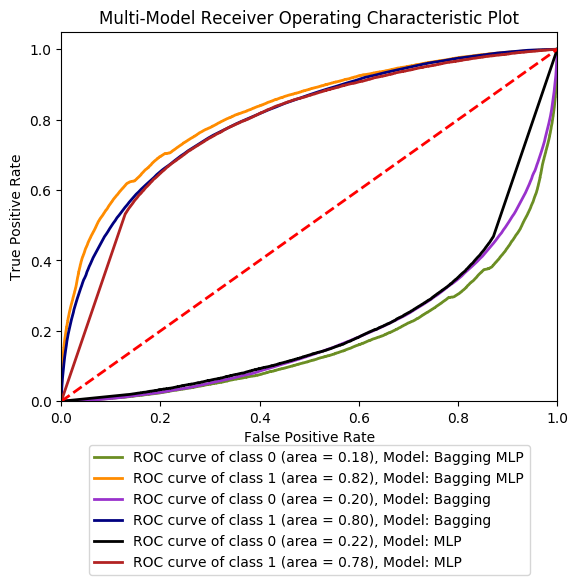
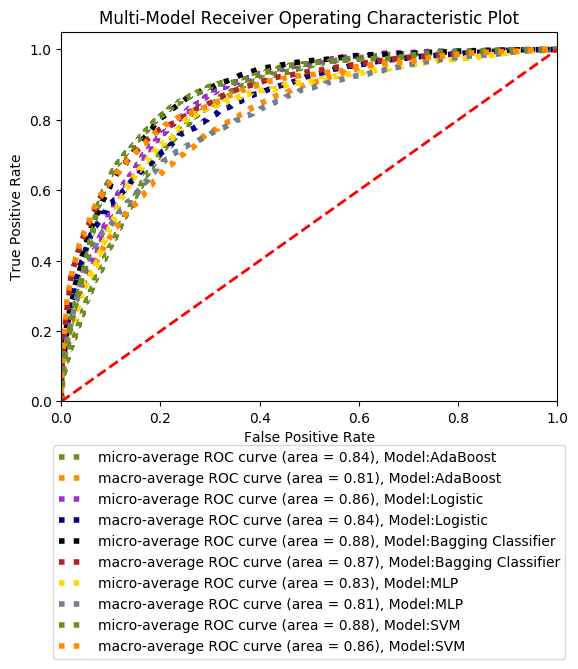
Got organelle predictor configured

diff --git a/Python_Files/organelle.py b/Python_Files/organelle.py
@@ -2,6 +2,8 @@ import sys, string, io, os, math
 import numpy as np
 from collections import Counter
 import matplotlib.pyplot as plot
+from scipy import interp
+from itertools import cycle
 
 from Bio import SeqIO
 from Bio.Seq import Seq
@@ -17,8 +19,8 @@ from sklearn.ensemble import AdaBoostClassifier, RandomForestClassifier
 
 from sklearn.feature_selection import RFE, RFECV
 from sklearn.model_selection import train_test_split,StratifiedKFold
-from sklearn.metrics import matthews_corrcoef,classification_report,confusion_matrix
-from sklearn.preprocessing import StandardScaler
+from sklearn.metrics import matthews_corrcoef,classification_report,confusion_matrix, roc_curve,auc
+from sklearn.preprocessing import StandardScaler, label_binarize
 from sklearn.externals import joblib
 
 from imblearn.metrics import classification_report_imbalanced
@@ -50,26 +52,26 @@ def main():
 def readFasta():
     # LABELS: 1 = CYTO, 2 = MITO, 3 = NUCLEUS, 4 = SECRETED
     files = []
-    for fa in os.listdir("FASTA"):
-        filePath = "FASTA/" + str(fa)
+    for fa in os.listdir("../Data_Files/organelle_files/"):
+        filePath = "../Data_Files/organelle_files/" + str(fa)
         files += [filePath]
     files = sorted(files)
     print files
     labels = []
     sequences = []
-    species_list = []
+    # species_list = []
     for i in range(0,len(files)):
         for seq_record in SeqIO.parse(files[i],'fasta'):
-            species, processed = processSeq(seq_record)
+            processed = processSeq(str(seq_record.seq))
             sequences += [processed]
-            species_list += [species]
+            # species_list += [species]
             # sequences += [oneHotEncode(seq_record)]
             labels += [i]
     l = np.asarray(labels)
     s = np.asarray(sequences)
-    labelSpecies(species_list)
+    # labelSpecies(species_list)
     print "Distribution of labels = " + str(sorted(Counter(labels).items()))
-    np.savez_compressed('data',labels=labels,seqs=sequences)
+    np.savez_compressed('../Data_Files/temp_files/organelle',labels=labels,seqs=sequences)
     return sequences,labels
 
 def oneHotEncode(sequence):
@@ -97,7 +99,7 @@ def createWindows(sequences,labels):
     assert(len(windows) == len(new_labels))
     return windows,new_labels
 
-def processSeq(seq_record):
+def processSeq(seq):
 
     ''' Protein features found:
         - Sequence Length
@@ -112,10 +114,10 @@ def processSeq(seq_record):
     '''
 
 
-    seq = str(seq_record.seq)
+    # seq = str(seq_record.seq)
     prot = ProteinAnalysis(seq)
-    desc = str(seq_record.description).split('_')
-    species = desc[1].split(' ')[0]
+    # desc = str(seq_record.description).split('_')
+    # species = desc[1].split(' ')[0]
     seq_length = len(seq)
     isoelectric = prot.isoelectric_point()
     gravy = calculateGravy(seq,0,seq_length)
@@ -151,7 +153,7 @@ def processSeq(seq_record):
                     AA_global_dist + AA_local_head + AA_local_tail + list(ss_frac)
 
     # print seq_length, GC_distribution, mol_weight, aroma, isoelectric
-    return species, return_vector
+    return return_vector
 
 def calculateGravy(sequence,start,end):
     total = 0
@@ -217,7 +219,7 @@ def optimalFeatures(X,y):
     plot.xlabel("Number of features selected")
     plot.ylabel("Cross validation score (nb of correct classifications)")
     plot.plot(range(1, len(rfecv.grid_scores_) + 1), rfecv.grid_scores_)
-    plot.show()
+    plot.savefig("Plots/OptimalFeatures.png")
 
 def evaluateFeatures(X,y, num_features):
     scaler = StandardScaler()
@@ -242,30 +244,56 @@ def evaluateFeatures(X,y, num_features):
 
     importances = selector.ranking_
     indices = np.argsort(importances)
-    sorted_labels = []
-    print len(labels),len(indices)
-    for i in range(0,len(indices)):
-        sorted_labels += labels[indices[i]]
-    print len(importances),len(indices),X.shape[1]
-    print("Feature Ranking:")
-    for r in range(0,X.shape[1]):
-        print "{}: {} ({})".format(r+1,labels[indices[r]],importances[indices[r]])
-    f = plot.figure()
-    plot.title("Feature importances")
-    plot.bar(range(X.shape[1]), importances[indices],color="b", align="center")
-    plot.xticks(range(X.shape[1]), sorted_labels,rotation='vertical')
-    plot.xlim([-1, X.shape[1]])
-    plot.show()
+    # sorted_labels = []
+    # print len(labels),len(indices)
+    # for i in range(0,len(indices)):
+    #     sorted_labels += labels[indices[i]]
+    # print len(importances),len(indices),X.shape[1]
+    # print("Feature Ranking:")
+    # for r in range(0,X.shape[1]):
+    #     print "{}: {} ({})".format(r+1,labels[indices[r]],importances[indices[r]])
+    # f = plot.figure()
+    # plot.title("Feature importances")
+    # plot.bar(range(X.shape[1]), importances[indices],color="b", align="center")
+    # plot.xticks(range(X.shape[1]), sorted_labels,rotation='vertical')
+    # plot.xlim([-1, X.shape[1]])
+    # plot.savefig("Plots/")
 
     sorted_features = []
     for i in range(0,len(X)):
         row = X[i]
         current_features = [row[indices[i]] for i in range(0,num_features)]
-        print len(current_features)
+        # print len(current_features)
         sorted_features += [current_features]
-    print(indices[0:num_features])
+    # print(indices[0:num_features])
     return sorted_features
 
+def buildPredict(predict_seq):
+    sequences,labels = readFasta()
+    X = np.asarray(sequences)
+    y = np.asarray(labels)
+    indices = [0,29,30,31,33,35,36,38,80,41,42,27,43,49,52,57,59,61,64,65,72,75,79,48,26,81,24,8,5,25,4,10,11,7,13,14,15,3,12,20,23,1,2,21,16,6,19,18,17]
+    sorted_features = []
+    for i in range(0,len(X)):
+        row = X[i]
+        current_features = [row[indices[j]] for j in range(0,len(indices))]
+        sorted_features += [current_features]
+    new_X = np.asarray(sorted_features)
+    scaler = StandardScaler()
+    print(scaler.fit(new_X))
+    scaled_train_x = scaler.transform(new_X)
+    X_train,X_test,y_train,y_test = train_test_split(scaled_train_x,y,random_state=19,test_size=0.3)
+    svm = SVC(class_weight='balanced',random_state=19,decision_function_shape='ovr')
+    svm.fit(X_train,y_train)
+
+    sorted_predict = []
+    for i in range(0,len(predict_seq)):
+        temp_predict = processSeq(predict_seq[i])
+        temp = [temp_predict[indices[j]] for j in range(0,len(indices))]
+        sorted_predict += [temp]
+    scaled_predict_x = scaler.transform(sorted_predict)
+    probs_svm = svm.decision_function(scaled_predict_x)
+    return probs_svm
 
 def buildModel(X,y):
     # X = np.reshape(X,(X.shape[0],X.shape[1] * X.shape[2]))
@@ -276,7 +304,7 @@ def buildModel(X,y):
     X_train,X_test,y_train,y_test = train_test_split(scaled_train_x,y,random_state=19,test_size=0.3)
 
     bag = BalancedBaggingClassifier(n_estimators=200,random_state=19)
-    svm = SVC(class_weight='balanced',random_state=19,decision_function_shape='ovo')
+    svm = SVC(class_weight='balanced',random_state=19,decision_function_shape='ovr')
     neural = MLPClassifier(max_iter=500,random_state=19,solver='lbfgs',alpha=1e-5,hidden_layer_sizes=(49,8,4))
     ada = AdaBoostClassifier(n_estimators=100,random_state=19)
     logistic = LogisticRegression(solver='lbfgs',max_iter=500)
@@ -287,6 +315,7 @@ def buildModel(X,y):
     neural.fit(X_train,y_train)
     ada.fit(X_train,y_train)
     logistic.fit(X_train,y_train)
+
     # joblib.dump(bag,'bag.pkl')
     # joblib.dump(scaler,'scaler.pkl')
 
@@ -314,6 +343,100 @@ def buildModel(X,y):
     print(classification_report_imbalanced(y_test, y_pred4))
     print(classification_report_imbalanced(y_test, y_pred5))
 
+    probs_ada = ada.predict_proba(X_test)
+    probs_bag = bag.predict_proba(X_test)
+    probs_neural = neural.predict_proba(X_test)
+    probs_logistic = logistic.predict_proba(X_test)
+    probs_svm = svm.decision_function(X_test)
+
+    ROCplot(probs_ada,y_test,"Plots/ROCplotADA-organelle.png")
+    ROCplot(probs_logistic,y_test,"Plots/ROCplotLogistic-organelle.png")
+    ROCplot(probs_bag,y_test,"Plots/ROCplotBAG-organelle.png")
+    ROCplot(probs_neural,y_test,"Plots/ROCplotNeural-organelle.png")
+    ROCplot(probs_svm,y_test,"Plots/ROCplotSVM-organelle.png")
+
+    multiROCplot([probs_ada,probs_logistic,probs_bag,probs_neural,probs_svm],y_test,"Plots/multiROCplot.png",['AdaBoost','Logistic','Bagging Classifier','MLP','SVM'])
+
+def multiROCplot(probs_list, Y_test,save,models):
+    Y_test = label_binarize(Y_test,classes=[0,1,2,3])
+    assert(len(models) == len(probs_list));
+    fpr = dict()
+    tpr = dict()
+    roc_auc = dict()
+    for j in range(0,len(probs_list)):
+        for i in range(0,4):
+            fpr[(j,i)], tpr[(j,i)], _ = roc_curve(Y_test[:,i],probs_list[j][:,i])
+            # fpr[(j,i)], tpr[(j,i)], _ = roc_curve(Y_test,[probs_list[j][k][i] for k in range(len(probs_list[0]))])
+            roc_auc[(j,i)] = auc(fpr[(j,i)],tpr[(j,i)])
+        fpr[(j,'micro')], tpr[(j,'micro')], _ = roc_curve(Y_test.ravel(), probs_list[j].ravel())
+        roc_auc[(j,'micro')] = auc(fpr[(j,'micro')], tpr[(j,'micro')])
+        all_fpr = np.unique(np.concatenate([fpr[(j,k)] for k in range(0,4)]))
+        mean_tpr = np.zeros_like(all_fpr)
+        for i in range(0,4):
+            mean_tpr += interp(all_fpr,fpr[(j,i)],tpr[(j,i)])
+        mean_tpr /= 4
+        fpr[(j,'macro')] = all_fpr
+        tpr[(j,'macro')] = mean_tpr
+        roc_auc[(j,'macro')] = auc(fpr[(j,'macro')],tpr[(j,'macro')])
+    lw = 2
+    plot.figure()
+    color_list = cycle([['olivedrab', 'darkorange'], ['darkorchid','navy'],['black','firebrick'],['gold','slategrey']])
+    for j,colors in zip(range(0,len(probs_list)),color_list):
+        plot.plot(fpr[(j,'micro')], tpr[(j,'micro')],
+             label='micro-average ROC curve (area = {0:0.2f}), Model:{1}'.format(roc_auc[(j,'micro')],models[j]),color=colors[0], linestyle=':', linewidth=4)
+        plot.plot(fpr[(j,'macro')], tpr[(j,'macro')],
+                 label='macro-average ROC curve (area = {0:0.2f}), Model:{1}'.format(roc_auc[(j,'macro')],models[j]),color=colors[1], linestyle=':', linewidth=4)
+    plot.plot([0, 1], [0, 1], 'r--', lw=lw)
+    plot.xlim([0.0, 1.0])
+    plot.ylim([0.0, 1.05])
+    plot.xlabel('False Positive Rate')
+    plot.ylabel('True Positive Rate')
+    plot.title('Multi-Model Receiver Operating Characteristic Plot')
+    l = plot.legend(loc='upper center', bbox_to_anchor=(0.5,-0.1))
+    # plot.show()
+    plot.savefig(save, bbox_extra_artists=(l,), bbox_inches='tight')
+
+
+def ROCplot(probs,Y_test,save):
+    Y_test = label_binarize(Y_test,classes=[0,1,2,3])
+    fpr = dict()
+    tpr = dict()
+    roc_auc = dict()
+    for i in range(0,4):
+        fpr[i], tpr[i], _ = roc_curve(Y_test[:,i],probs[:,i])
+        roc_auc[i] = auc(fpr[i],tpr[i])
+
+    fpr['micro'], tpr['micro'], _ = roc_curve(Y_test.ravel(), probs.ravel())
+    roc_auc['micro'] = auc(fpr['micro'], tpr['micro'])
+
+    all_fpr = np.unique(np.concatenate([fpr[i] for i in range(0,4)]))
+    mean_tpr = np.zeros_like(all_fpr)
+    for i in range(0,4):
+        mean_tpr += interp(all_fpr,fpr[i],tpr[i])
+    mean_tpr /= 4
+    fpr['macro'] = all_fpr
+    tpr['macro'] = mean_tpr
+    roc_auc['macro'] = auc(fpr['macro'],tpr['macro'])
+
+    lw = 2
+    plot.figure()
+    plot.plot(fpr["micro"], tpr["micro"],
+         label='micro-average ROC curve (area = {0:0.2f})'.format(roc_auc["micro"]),color='black', linestyle=':', linewidth=4)
+    plot.plot(fpr["macro"], tpr["macro"],
+             label='macro-average ROC curve (area = {0:0.2f})'.format(roc_auc["macro"]),color='navy', linestyle=':', linewidth=4)
+
+    colors = cycle(['olivedrab', 'darkorange', 'darkorchid','royalblue'])
+    for i, color in zip(range(0,4), colors):
+        plot.plot(fpr[i], tpr[i], color=color, lw=lw,label='ROC curve of class {0} (area = {1:0.2f})'.format(i, roc_auc[i]))
+    plot.plot([0, 1], [0, 1], 'r--', lw=lw)
+    plot.xlim([0.0, 1.0])
+    plot.ylim([0.0, 1.05])
+    plot.xlabel('False Positive Rate')
+    plot.ylabel('True Positive Rate')
+    plot.title('Receiver Operating Characteristic Plot')
+    plot.legend(loc="lower right")
+    # plot.show()
+    plot.savefig(save)
 
 
 if __name__ == "__main__":

diff --git a/Python_Files/run.py b/Python_Files/run.py
@@ -5,6 +5,8 @@ import sys
 import os
 from subprocess import Popen, PIPE
 
+output_file = "result4.txt"
+
 read_mtx = [['read_mtx.py'],
             ['../Data_Files/train_files/disprotFasta.fa','../Data_Files/test_files/disopred3test.fa'],
             ['../Data_Files/temp_files/compressedDisprot.npz','../Data_Files/temp_files/compressedDisopred.npz'],
@@ -46,28 +48,28 @@ predict = [
 
 i = 21
 cmd = 'python'
-with open('result4.txt','w') as a:
+with open(output_file,'w') as a:
     a.writelines("----WINDOW SIZE---\n")
     a.writelines("---- " + str(i) + "----\n")
 for j in range(0,2):
     p = Popen([cmd,json[0][0],json[1][j],'json',json[2][j],str(i)], stdout=PIPE,stderr=PIPE)
     out,err = p.communicate()
-    with open('result4.txt','a') as a:
+    with open(output_file,'a') as a:
         a.writelines(out)
 for k in range(0,2):
     p = Popen([cmd,read_mtx[0][0],read_mtx[1][k],read_mtx[2][k],read_mtx[3][k]], stdout=PIPE,stderr=PIPE)
     out,err = p.communicate()
-    with open('result4.txt','a') as a:
+    with open(output_file,'a') as a:
         a.writelines(out)
         a.writelines(err)
 for j in range(0,2):
     p = Popen([cmd,encoded[0][0],encoded[1][j],'mtx',encoded[2][j],str(i)], stdout=PIPE,stderr=PIPE)
     out,err = p.communicate()
-    with open('result4.txt','a') as a:
+    with open(output_file,'a') as a:
         a.writelines(out)
         a.writelines(err)
 p = Popen([cmd,predict[0][0],predict[1][0],'bagClassify',str(i)], stdout=PIPE,stderr=PIPE)
 out,err = p.communicate()
-with open('result4.txt','a') as a:
+with open(output_file,'a') as a:
     a.writelines(out)
     a.writelines(err)

diff --git a/Python_Files/test.py b/Python_Files/test.py
@@ -1,0 +1,12 @@
+import sys
+import organelle
+from Bio import SeqIO
+
+path = "../Data_Files/test_files/disopred3test.fa"
+
+seqs = []
+for seq_record in SeqIO.parse(path,'fasta'):
+    seqs += [str(seq_record.seq
+vals = organelle.buildPredict(seqs)
+
+print vals

diff --git a/Python_Files/predict_model.py b/Python_Files/predict_model.py
@@ -17,6 +17,7 @@ import matplotlib
 matplotlib.use('Agg')
 import matplotlib.pyplot as pyplot
 from itertools import cycle
+from organelle import buildPredict
 
 # Metric calculation functions
 from sklearn.svm import SVC
